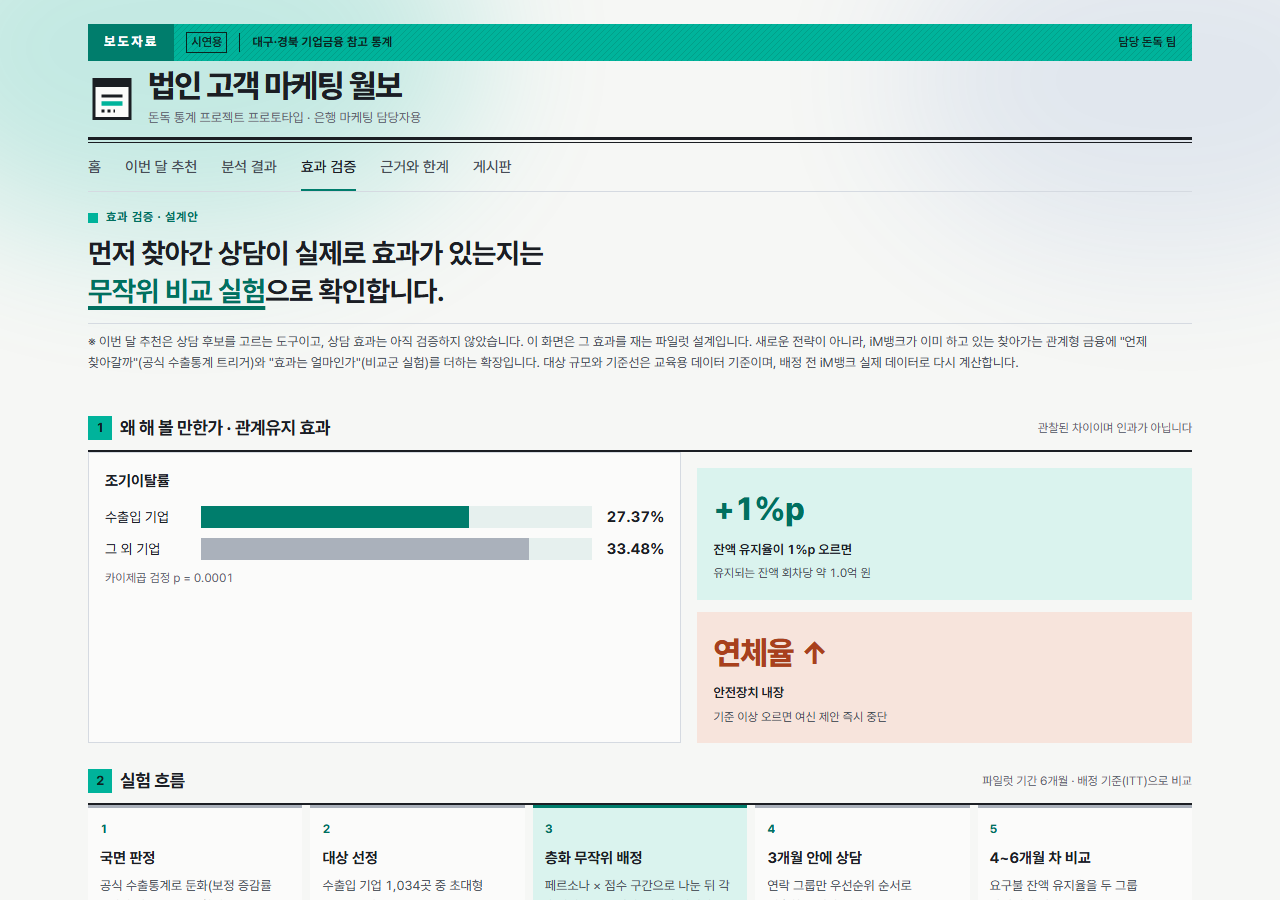
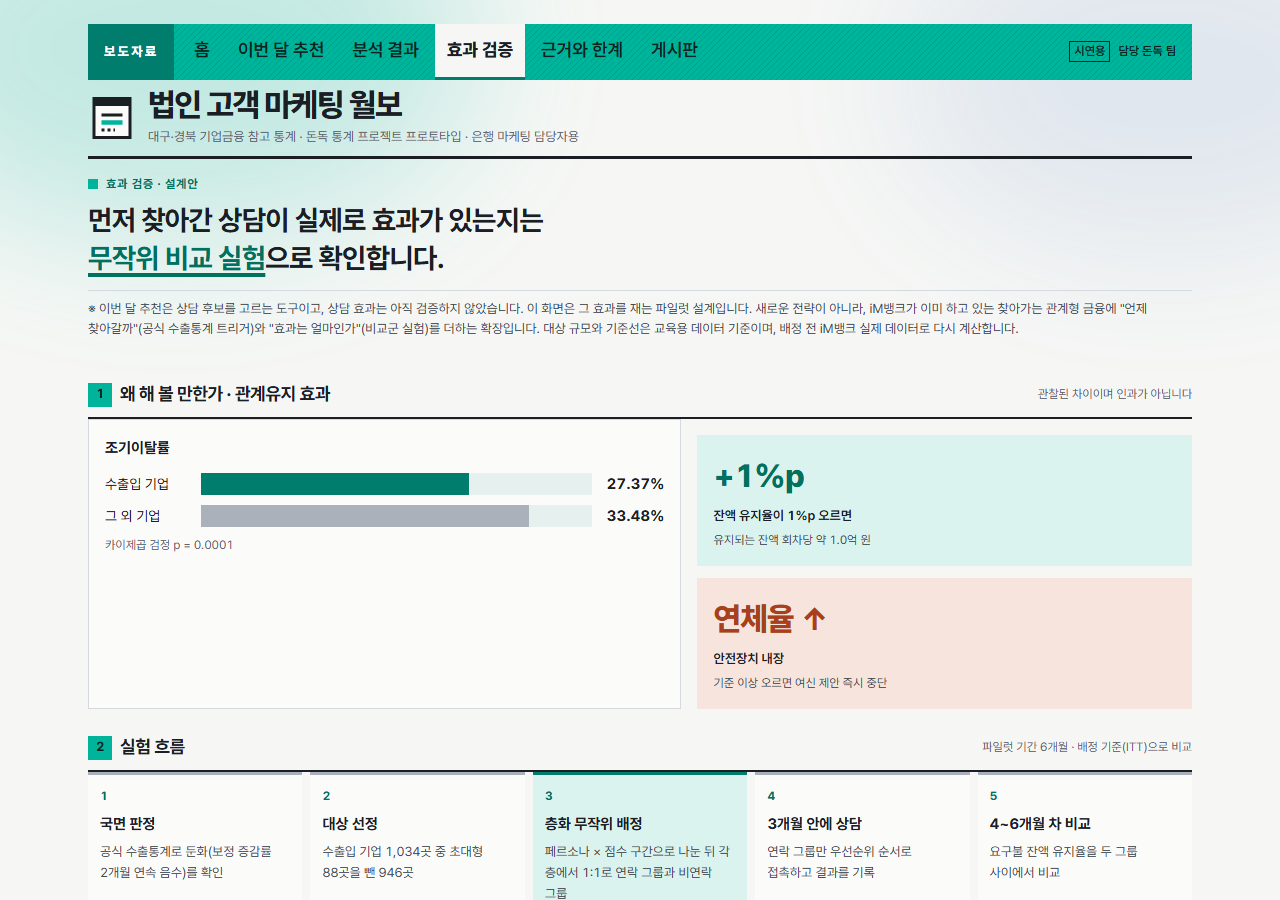
feat: 윗줄 메뉴를 초록 머리 띠로 합치고, 신호 월보를 시도했다 뺀 방법 아래 셋째 단 탭으로 정리

Changed region(s): [[0.0625, 0.0, 0.9375, 1.0]]

diff --git a/src/components/SubNav.tsx b/src/components/SubNav.tsx
@@ -1,31 +1,41 @@
-import { NavLink, useLocation } from 'react-router-dom'
+import { Link, useLocation } from 'react-router-dom'
 import { useMonth } from '../lib/month'
 
+interface Item {
+  to: string
+  label: string
+  /** 이 탭이 켜져 보일 주소들(첫 화면 외에 딸린 화면이 있을 때) */
+  also?: string[]
+}
+
+/** 시도했다 뺀 방법 안의 화면들: 왜 뺐는지(근거) + 그때 만든 시연 화면(신호 월보 계열) */
+export const DROPPED: Item[] = [
+  { to: '/evidence', label: '왜 뺐나' },
+  { to: '/bulletin', label: '시연: 월보' },
+  { to: '/firms', label: '시연: 고객' },
+  { to: '/timing', label: '시연: 계정 시차' },
+]
+
+const DEMO_NOTE =
+  '시연용 화면입니다. 가상 고객 80곳으로 규칙이 작동하는 모습을 보여 주며, 이 계좌 신호는 달력(영업일수)을 걷어낸 팀 재검증에서 수출 둔화를 알아채지 못해 최종 모델에서 뺐습니다.'
+
 /** 윗줄 메뉴 하나 아래에 묶인 화면들. 윗줄 메뉴는 묶음의 첫 화면으로 가고, 묶음 안에서는 이 작은 탭으로 오간다 */
-export const GROUPS = [
-  {
-    label: '신호 월보',
-    note: '시연용 화면입니다. 가상 고객 80곳으로 규칙이 작동하는 모습을 보여 주며, 이 계좌 신호는 달력(영업일수)을 걷어낸 팀 재검증에서 수출 둔화를 알아채지 못해 기각됐습니다.',
-    items: [
-      { to: '/bulletin', label: '월보' },
-      { to: '/firms', label: '고객' },
-      { to: '/timing', label: '계정 시차' },
-    ],
-  },
+export const GROUPS: { label: string; items: Item[] }[] = [
   {
     label: '근거와 한계',
-    note: '',
     items: [
       { to: '/insight', label: '팀 인사이트' },
-      { to: '/evidence', label: '시도했다 뺀 방법' },
-      { to: '/bulletin', label: '신호 월보(시연)' },
+      { to: '/evidence', label: '시도했다 뺀 방법', also: DROPPED.map((d) => d.to) },
       { to: '/glossary', label: '용어 사전' },
     ],
   },
 ]
 
+const matches = (pathname: string, to: string) => pathname === to || pathname.startsWith(`${to}/`)
+const isOn = (pathname: string, i: Item) => [i.to, ...(i.also ?? [])].some((p) => matches(pathname, p))
+
 export function groupOf(pathname: string) {
-  return GROUPS.find((g) => g.items.some((i) => pathname === i.to || pathname.startsWith(`${i.to}/`)))
+  return GROUPS.find((g) => g.items.some((i) => isOn(pathname, i)))
 }
 
 export function SubNav() {
@@ -33,18 +43,30 @@ export function SubNav() {
   const { search } = useMonth()
   const group = groupOf(pathname)
   if (!group) return null
+  const inDropped = DROPPED.some((d) => matches(pathname, d.to))
+  const inDemo = inDropped && !matches(pathname, '/evidence')
   return (
     <>
       <nav className="subnav" aria-label={`${group.label} 안의 화면`}>
         {group.items.map((i) => (
-          <NavLink key={i.to} to={{ pathname: i.to, search }}>
+          <Link key={i.to} to={{ pathname: i.to, search }} aria-current={isOn(pathname, i) ? 'page' : undefined}>
             {i.label}
-          </NavLink>
+          </Link>
         ))}
       </nav>
-      {group.note && (
+      {inDropped && (
+        <nav className="subnav subnav-sub" aria-label="시도했다 뺀 방법 안의 화면">
+          <span className="subnav-sub-label">시도했다 뺀 방법</span>
+          {DROPPED.map((d) => (
+            <Link key={d.to} to={{ pathname: d.to, search }} aria-current={matches(pathname, d.to) ? 'page' : undefined}>
+              {d.label}
+            </Link>
+          ))}
+        </nav>
+      )}
+      {inDemo && (
         <p className="subnav-note" role="note">
-          {group.note}
+          {DEMO_NOTE}
         </p>
       )}
     </>

diff --git a/src/components/Masthead.tsx b/src/components/Masthead.tsx
@@ -6,7 +6,7 @@ import { INTERNAL } from '../lib/internal'
 import { useData } from '../lib/data'
 
 /** 윗줄 메뉴. 발표 흐름(언제·누구에게 → 근거 → 효과 검증) 순서. 근거와 한계는 묶음이라 아래 작은 탭(SubNav)으로 나뉜다.
- *  신호 월보(시연용, 은행 계좌 신호는 기각)는 윗줄에서 빼고 근거와 한계 안에서만 연다 */
+ *  신호 월보(시연용, 은행 계좌 신호는 기각)는 근거와 한계 > 시도했다 뺀 방법 아래 셋째 단 탭으로만 연다 */
 const LINKS = [
   { to: '/', label: '홈', group: null },
   { to: '/recommend', label: '이번 달 추천', group: null },
@@ -40,13 +40,29 @@ export function Masthead() {
   const showMonth = MONTH_PAGES.some((p) => pathname.startsWith(p))
   return (
     <header className="masthead">
+      {/* 초록 머리 띠 = 윗줄 메뉴. 메뉴 줄을 따로 두지 않아 탭 단계가 하나 줄어든다 */}
       <div className="release-band">
         <p className="release-label">보도자료</p>
-        <p className="release-kind">
-          <span className="release-chip">시연용</span>
-          <span className="release-title">대구·경북 기업금융 참고 통계</span>
+        <nav className="band-nav" aria-label="주요 화면">
+          {LINKS.map((l) =>
+            l.group ? (
+              <Link
+                key={l.to}
+                to={{ pathname: l.to, search }}
+                aria-current={groupOf(pathname)?.label === l.group ? 'page' : undefined}
+              >
+                {l.label}
+              </Link>
+            ) : (
+              <NavLink key={l.to} to={{ pathname: l.to, search }} end={l.to === '/'}>
+                {l.label}
+              </NavLink>
+            ),
+          )}
+        </nav>
+        <p className="release-meta">
+          <span className="release-chip">시연용</span> 담당 돈독 팀
         </p>
-        <p className="release-meta">담당 돈독 팀</p>
       </div>
       {INTERNAL && (
         <p className="internal-band" role="note">
@@ -61,29 +77,13 @@ export function Masthead() {
               <NavLink to={{ pathname: '/', search }}>법인 고객 마케팅 월보</NavLink>
             </p>
             <p className="masthead-issuer">
-              돈독 통계 프로젝트 프로토타입 · 은행 마케팅 담당자용{showMonth ? (kind === 'real' ? ' · 실제 법인 데이터(내부 시연)' : ' · 신호 월보는 가상 고객 데이터') : ''}
+              대구·경북 기업금융 참고 통계 · 돈독 통계 프로젝트 프로토타입 · 은행 마케팅 담당자용
+              {showMonth ? (kind === 'real' ? ' · 실제 법인 데이터(내부 시연)' : ' · 신호 월보는 가상 고객 데이터') : ''}
             </p>
           </div>
         </div>
         {showMonth && <MonthControl />}
       </div>
-      <nav className="nav" aria-label="주요 화면">
-        {LINKS.map((l) =>
-          l.group ? (
-            <Link
-              key={l.to}
-              to={{ pathname: l.to, search }}
-              aria-current={groupOf(pathname)?.label === l.group ? 'page' : undefined}
-            >
-              {l.label}
-            </Link>
-          ) : (
-            <NavLink key={l.to} to={{ pathname: l.to, search }} end={l.to === '/'}>
-              {l.label}
-            </NavLink>
-          ),
-        )}
-      </nav>
     </header>
   )
 }

diff --git a/src/styles/app.css b/src/styles/app.css
@@ -72,7 +72,7 @@
 .release-label {
   display: flex;
   align-items: center;
-  padding: var(--s-2) var(--s-4);
+  padding: var(--s-3) var(--s-4);
   background: var(--accent);
   color: #ffffff;
   font-size: var(--t-sm);
@@ -108,8 +108,57 @@
 .release-meta {
   display: flex;
   align-items: center;
+  gap: var(--s-2);
   padding: var(--s-2) var(--s-4);
   font-weight: 600;
+  white-space: nowrap;
+}
+
+@media (max-width: 640px) {
+  .release-meta {
+    display: none;
+  }
+  .band-nav {
+    flex-wrap: wrap;
+    overflow: visible;
+    padding: 0;
+  }
+  .band-nav a {
+    padding: var(--s-2) var(--s-2);
+    font-size: var(--t-base);
+  }
+}
+
+/* 머리 띠 안의 윗줄 메뉴: 띠를 키우고(높이 약 56px) 글자를 키워 한눈에 읽히게 */
+.band-nav {
+  display: flex;
+  align-items: stretch;
+  flex: 1;
+  min-width: 0;
+  gap: var(--s-1);
+  padding: 0 var(--s-2);
+  overflow-x: auto;
+}
+.band-nav a {
+  display: flex;
+  align-items: center;
+  padding: var(--s-3) var(--s-3);
+  border-bottom: 3px solid transparent;
+  color: var(--on-mint);
+  font-size: var(--t-md);
+  font-weight: 600;
+  text-decoration: none;
+  white-space: nowrap;
+  transition: background-color 150ms var(--ease-out), border-color 150ms var(--ease-out);
+}
+.band-nav a:hover {
+  background: rgba(255, 255, 255, 0.28);
+}
+.band-nav a[aria-current='page'] {
+  background: var(--paper);
+  border-bottom-color: var(--accent);
+  color: var(--ink);
+  font-weight: 800;
 }
 
 @media (max-width: 640px) {

diff --git a/src/styles/hub.css b/src/styles/hub.css
@@ -1110,6 +1110,33 @@
   color: #fff;
 }
 
+/* 셋째 단: 시도했다 뺀 방법 안의 화면. 둘째 단(검은 칸)과 구분되게 밑줄 탭으로 */
+.subnav-sub {
+  align-items: center;
+  padding: var(--s-1) 0 var(--s-2);
+  border-bottom: 0;
+}
+.subnav-sub-label {
+  padding-right: var(--s-2);
+  margin-right: var(--s-1);
+  border-right: var(--rule-thin) solid var(--rule-mid);
+  color: var(--ink-3);
+  font-size: var(--t-sm);
+  white-space: nowrap;
+}
+.subnav-sub a {
+  border: 0;
+  border-bottom: 2px solid transparent;
+  padding: var(--s-1) var(--s-2);
+  font-weight: 500;
+}
+.subnav-sub a[aria-current='page'] {
+  border-color: var(--accent);
+  background: transparent;
+  color: var(--accent-ink);
+  font-weight: 700;
+}
+
 .subnav-note {
   margin-top: var(--s-2);
   padding: var(--s-2) var(--s-3);

diff --git a/src/pages/Evidence.tsx b/src/pages/Evidence.tsx
@@ -218,7 +218,7 @@ export function Evidence() {
           에 있습니다.
         </p>
         <p className="detail-actions">
-          <MonthLink to="/bulletin">신호 월보로 돌아가기</MonthLink>
+          <MonthLink to="/bulletin">그때 만든 시연 화면(신호 월보) 보기</MonthLink>
         </p>
       </article>
 

diff --git a/README.md b/README.md
@@ -12,7 +12,7 @@
 
 ## 사이트 구성
 
-윗줄 메뉴 여섯 개로 나뉩니다. 순서는 발표 흐름(언제·누구에게·무엇을 → 근거 → 효과는)을 따릅니다.
+윗줄 메뉴 여섯 개는 맨 위 초록 띠 안에 있습니다. 순서는 발표 흐름(언제·누구에게·무엇을 → 근거 → 효과는)을 따릅니다. 근거와 한계 안에서는 작은 탭(팀 인사이트 · 시도했다 뺀 방법 · 용어 사전)으로 나뉘고, 시도했다 뺀 방법 안에서는 셋째 단 밑줄 탭(왜 뺐나 · 시연: 월보 · 시연: 고객 · 시연: 계정 시차)으로 다시 나뉩니다.
 
 | 메뉴 | 주소 | 내용 |
 |---|---|---|
@@ -20,7 +20,7 @@
 | 이번 달 추천 | `/recommend` | 팀 매칭 모델: 단계(언제) → 업종·페르소나(누구에게) → 수출형·수입형별 추천 상품(무엇을). 예전 주소 `/campaign`은 조건을 유지한 채 옮겨 감 |
 | 분석 결과 | `/results` | 최종 결과보고서 공통 사양: 요구불예금 시차별 반응, 6개 지표 판정표, 강건성, 확인한 범위. 예전 주소 `/analysis`는 이리로 옮겨 감 |
 | 효과 검증 | `/pilot` | 파일럿 설계(B안): 관계유지 효과, 층화 무작위 1:1 실험 흐름, 주지표·안전지표, 검출 가능한 효과, 판정 기준 |
-| 근거와 한계 | `/insight` · `/evidence` · `/bulletin` · `/glossary` | 팀 인사이트(관계 지도) · 시도했다 뺀 방법(계좌 신호 점검) · 신호 월보(시연용, 가상 고객 80곳: 월보 · 고객 · 계정 시차) · 용어 사전 35개 |
+| 근거와 한계 | `/insight` · `/evidence` · `/glossary` | 팀 인사이트(관계 지도) · 시도했다 뺀 방법(왜 뺐나 + 그때 만든 시연 화면 `/bulletin` · `/firms` · `/timing`, 가상 고객 80곳) · 용어 사전 35개 |
 | 게시판 | `/board` | GitHub Discussions(giscus) |
 
 화면 상태는 주소에 담깁니다. 신호 월보 계열은 `?m=YYYYMM`(기준월)과 `&c=loan|bill`(신호 조합), 이번 달 추천은 `?r=&cm=&v=&g=&s=&p=`(지역·기준월·단계·업종·페르소나)를 씁니다. 주소를 그대로 공유하면 같은 화면이 열리고 뒤로 가기도 됩니다.
